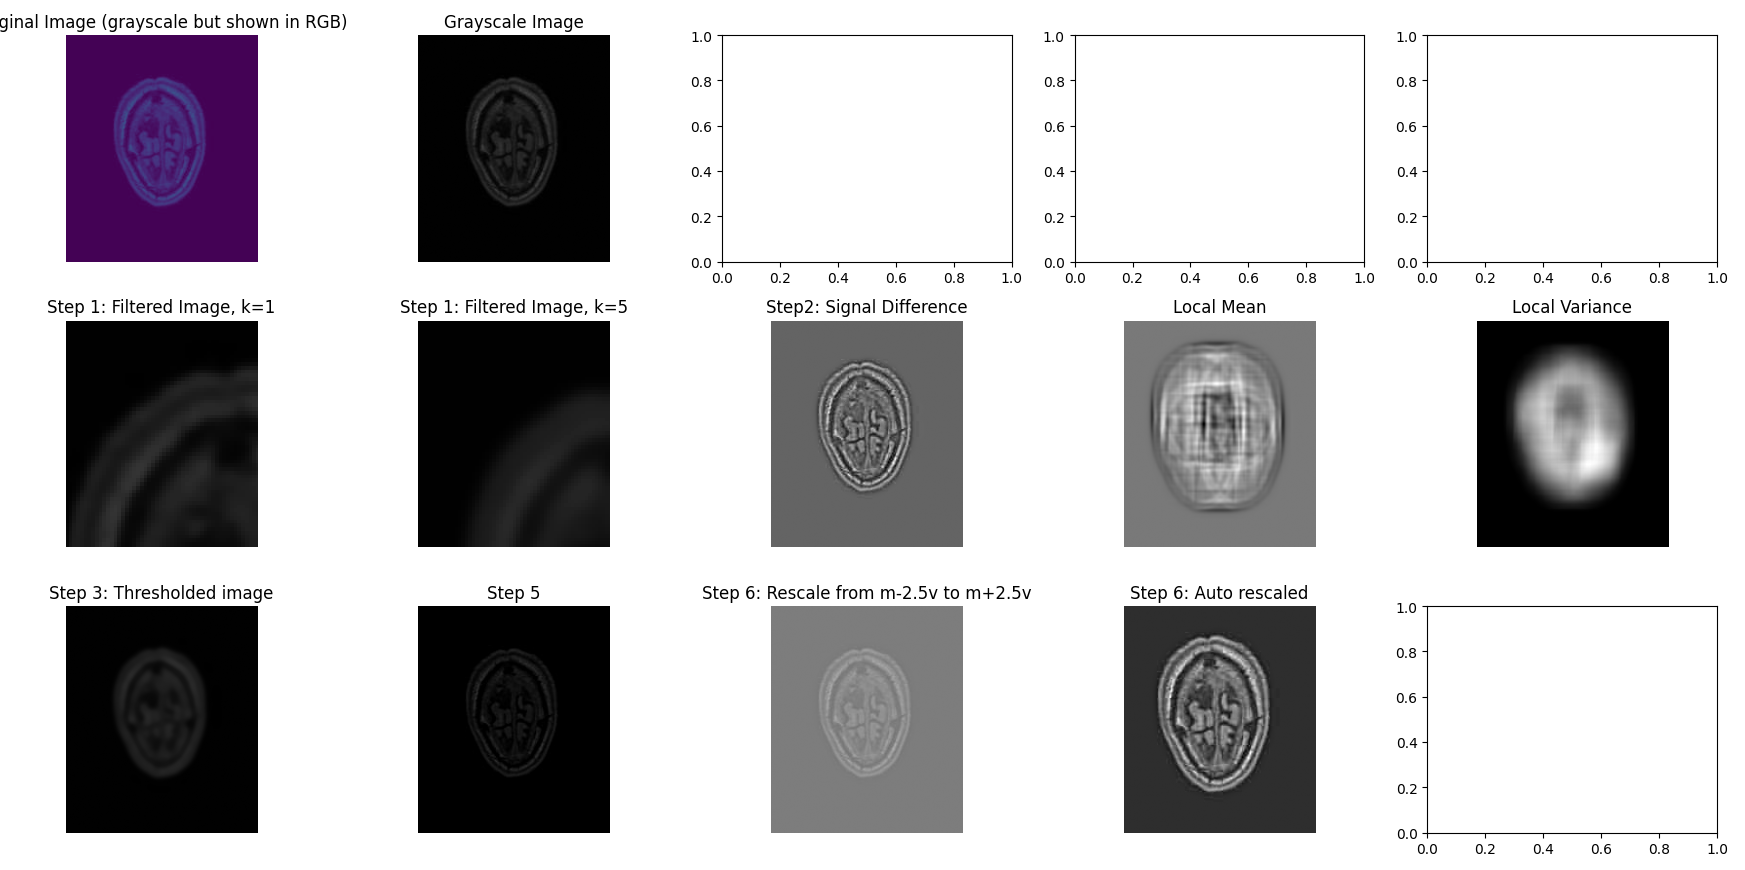
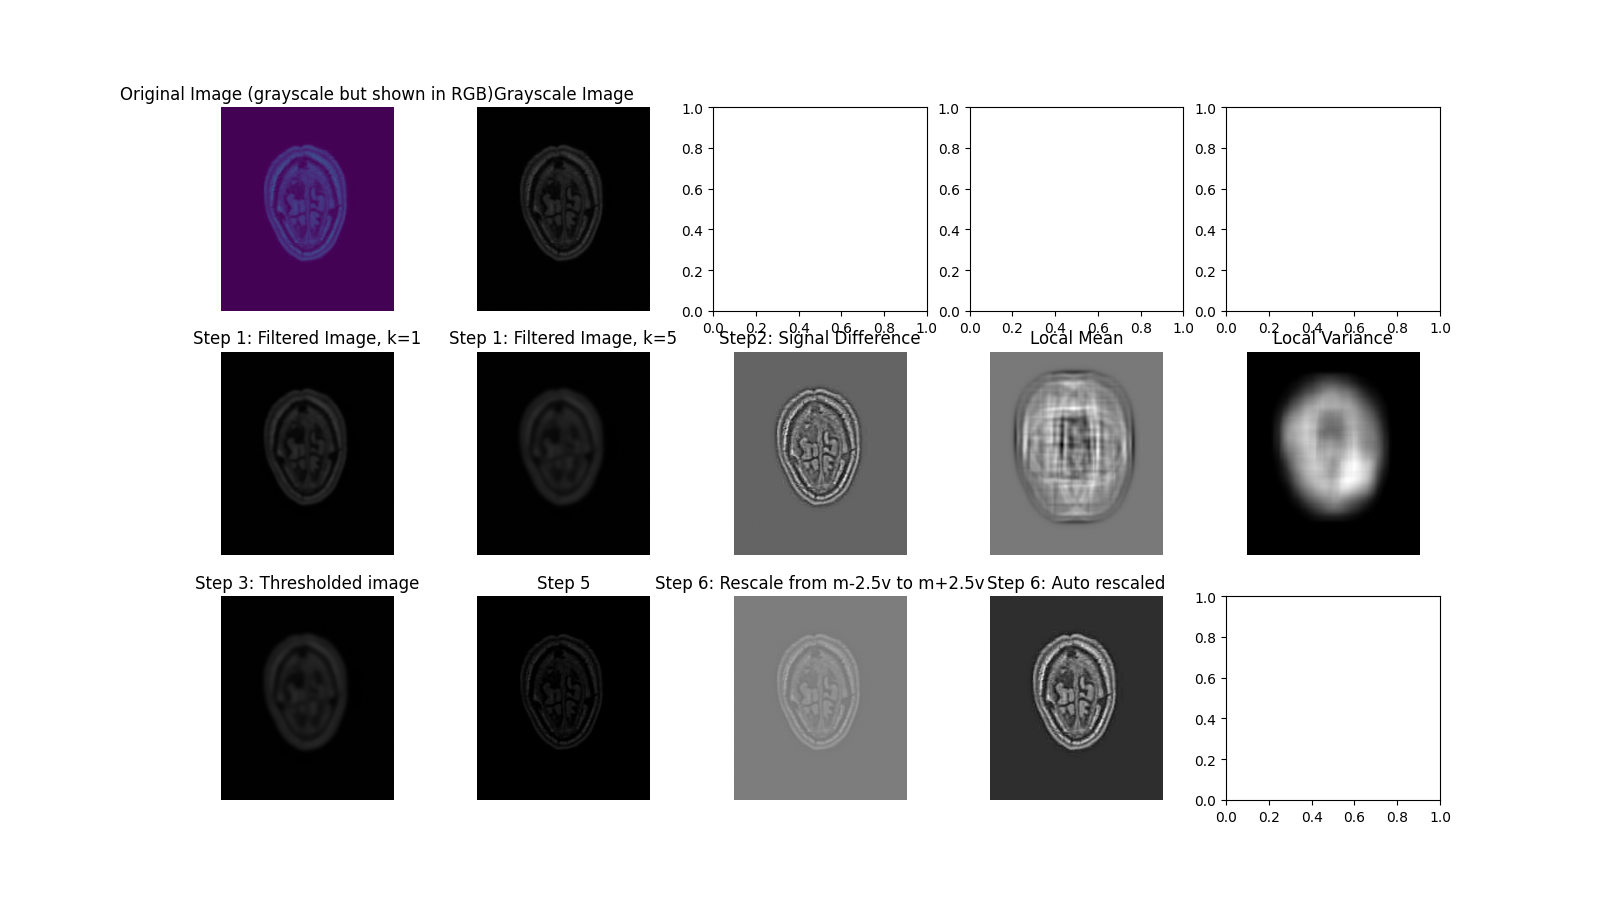
feat: add second plot

diff --git a/src/filter.py b/src/filter.py
@@ -9,7 +9,7 @@ from matplotlib import pyplot as plt
 from matplotlib.pylab import f
 import numpy as np
 
-from plot_helper import plot_img, axs
+from plot_helper import plot_img, axs, axs2
 
 
 def grayscale(image):
@@ -266,6 +266,14 @@ def edge_preserve_filter(image, k=5, alpha=0.5, kernel_size=11):
 
     plot_img(
         axs[2, 3],
+        Image_o,
+        "Step 6: Auto rescaled",
+        cmap=plt.get_cmap("gray"),
+        vmin=None,
+        vmax=None,
+    )
+    plot_img(
+        axs2[1],
         Image_o,
         "Step 6: Auto rescaled",
         cmap=plt.get_cmap("gray"),

diff --git a/src/main.py b/src/main.py
@@ -35,6 +35,7 @@ image_gray = image
 
 plot_img(axs[0, 0], image, "Original Image (grayscale but shown in RGB)")
 plot_img(axs[0, 1], image_gray, "Grayscale Image", cmap=plt.get_cmap("gray"))
+plot_img(axs2[0], image_gray, "Grayscale Image", cmap=plt.get_cmap("gray"))
 
 alpha = 0.5
 k = 5  #! k is 5 in the original paper
@@ -44,3 +45,5 @@ plt.tight_layout()
 plt.show()
 pickle.dump(fig, open(output_path + ".pickle", "wb"))
 fig.savefig(output_path + ".png")
+pickle.dump(fig2, open(output_path + "2.pickle", "wb"))
+fig2.savefig(output_path + "2.png")

diff --git a/src/plot_helper.py b/src/plot_helper.py
@@ -3,10 +3,7 @@ import matplotlib.axes
 
 fig, axs = plt.subplots(3, 5, figsize=(16, 9))
 
-
-def set_subplot(rows, cols):
-    global fig, axs
-    fig, axs = plt.subplots(rows, cols)
+fig2, axs2 = plt.subplots(1, 2, figsize=(16, 9))
 
 
 def plot_img(ax: matplotlib.axes.Axes, img, title, cmap=None, vmin=0, vmax=255):
